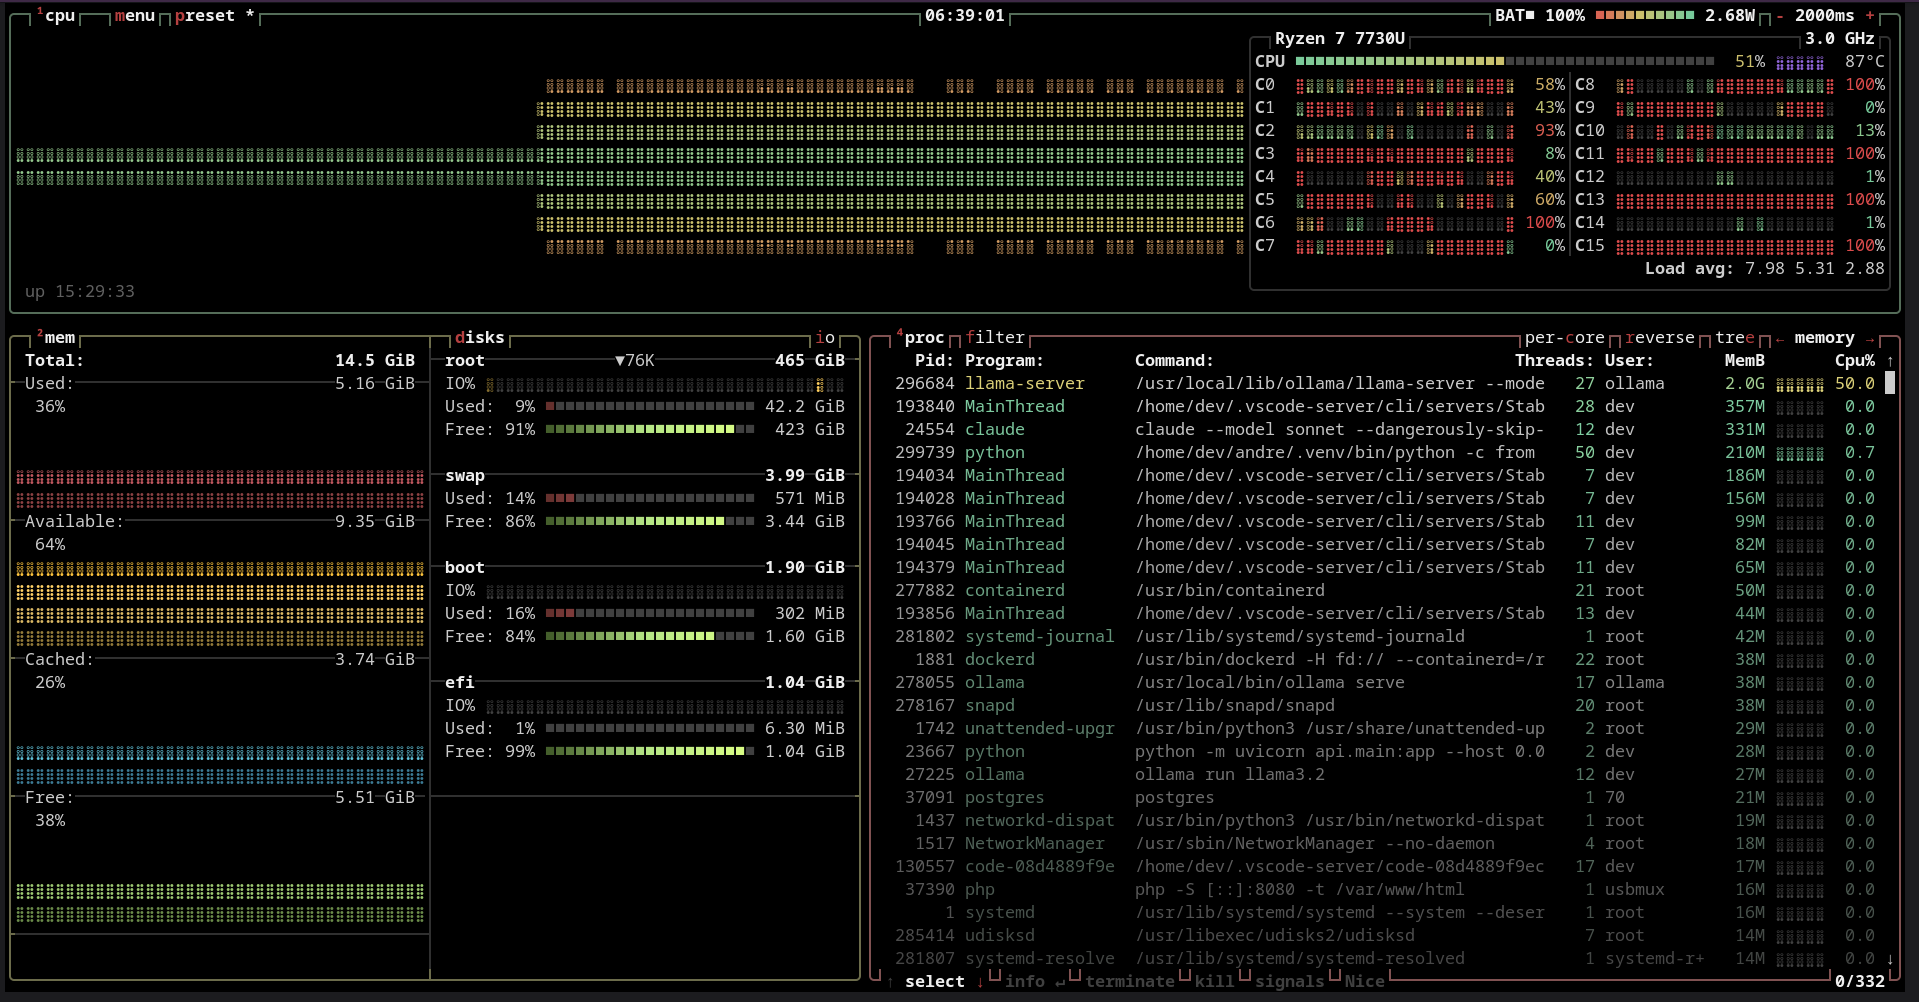
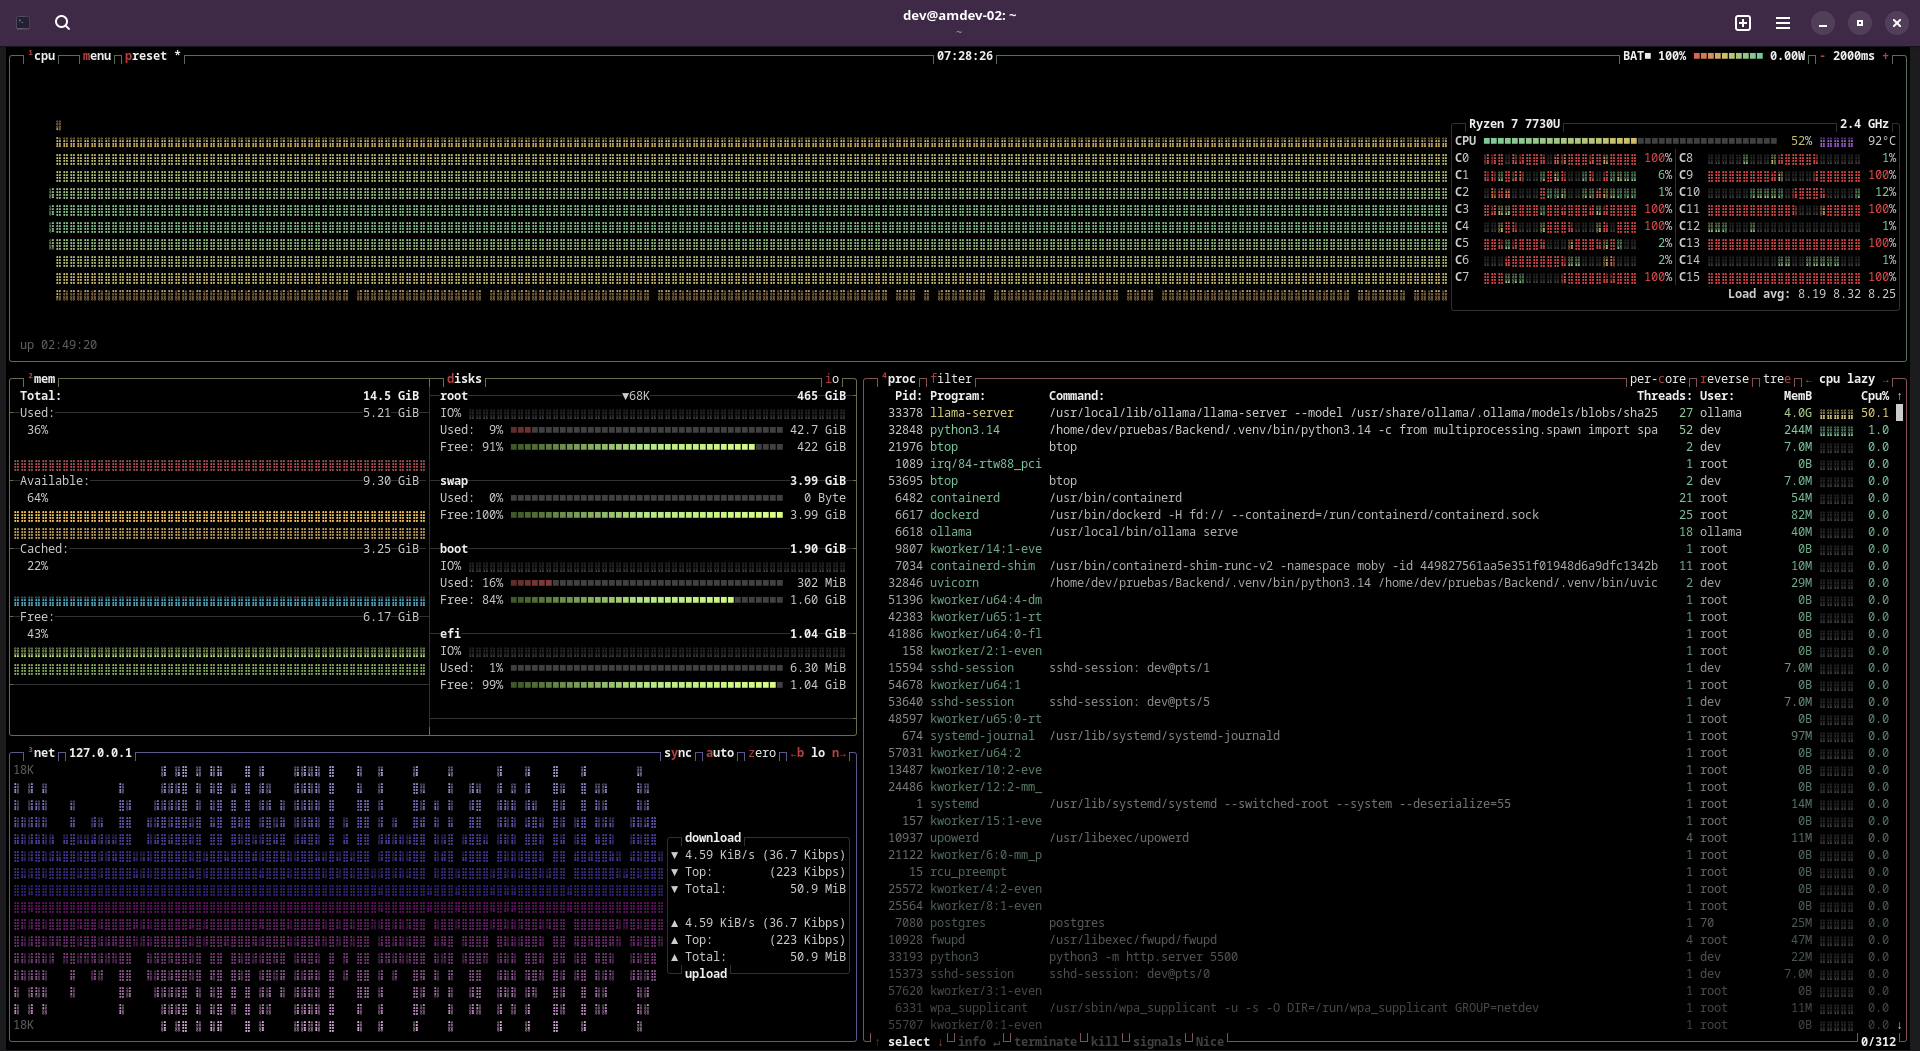
Se subio la demo estatica.

diff --git a/README.md b/README.md
@@ -78,7 +78,7 @@ Esto inicia PostgreSQL y Adminer. Después, activa **Guardado en BD** desde el d
 
 ## Consumo de recursos
 
-En las pruebas locales, el servidor completo consume aproximadamente **900 MB de RAM en reposo sin el modelo de Ollama cargado** y hasta **2 GB con `llama3.2` cargado**. Ollama se ejecuta en CPU y, mientras está inactivo, el uso de CPU puede permanecer en **0%**. Durante simulaciones y carga extrema se observó un máximo aproximado de **10 GB de RAM** y **51% de CPU**.
+En las pruebas locales, el servidor completo consume aproximadamente **900 MB de RAM en reposo sin el modelo de Ollama cargado** y hasta **2 GB con `llama3.2` cargado**. Ollama se ejecuta en CPU y, mientras está inactivo, el uso de CPU puede permanecer en **0%**. Durante simulaciones y carga extrema se observó un máximo aproximado de **10 GB de RAM** y **51% de CPU** al estar conectadas 4 personas mediante ssh pero sin conexiones y 4 simulaciones llega a 3 - 4 GB de ram en produccion de simulacion.
 
 Son cifras de referencia observadas en el equipo de prueba; pueden variar según el hardware, el sistema operativo, el modelo cargado y la cantidad de simulaciones simultáneas.
 
